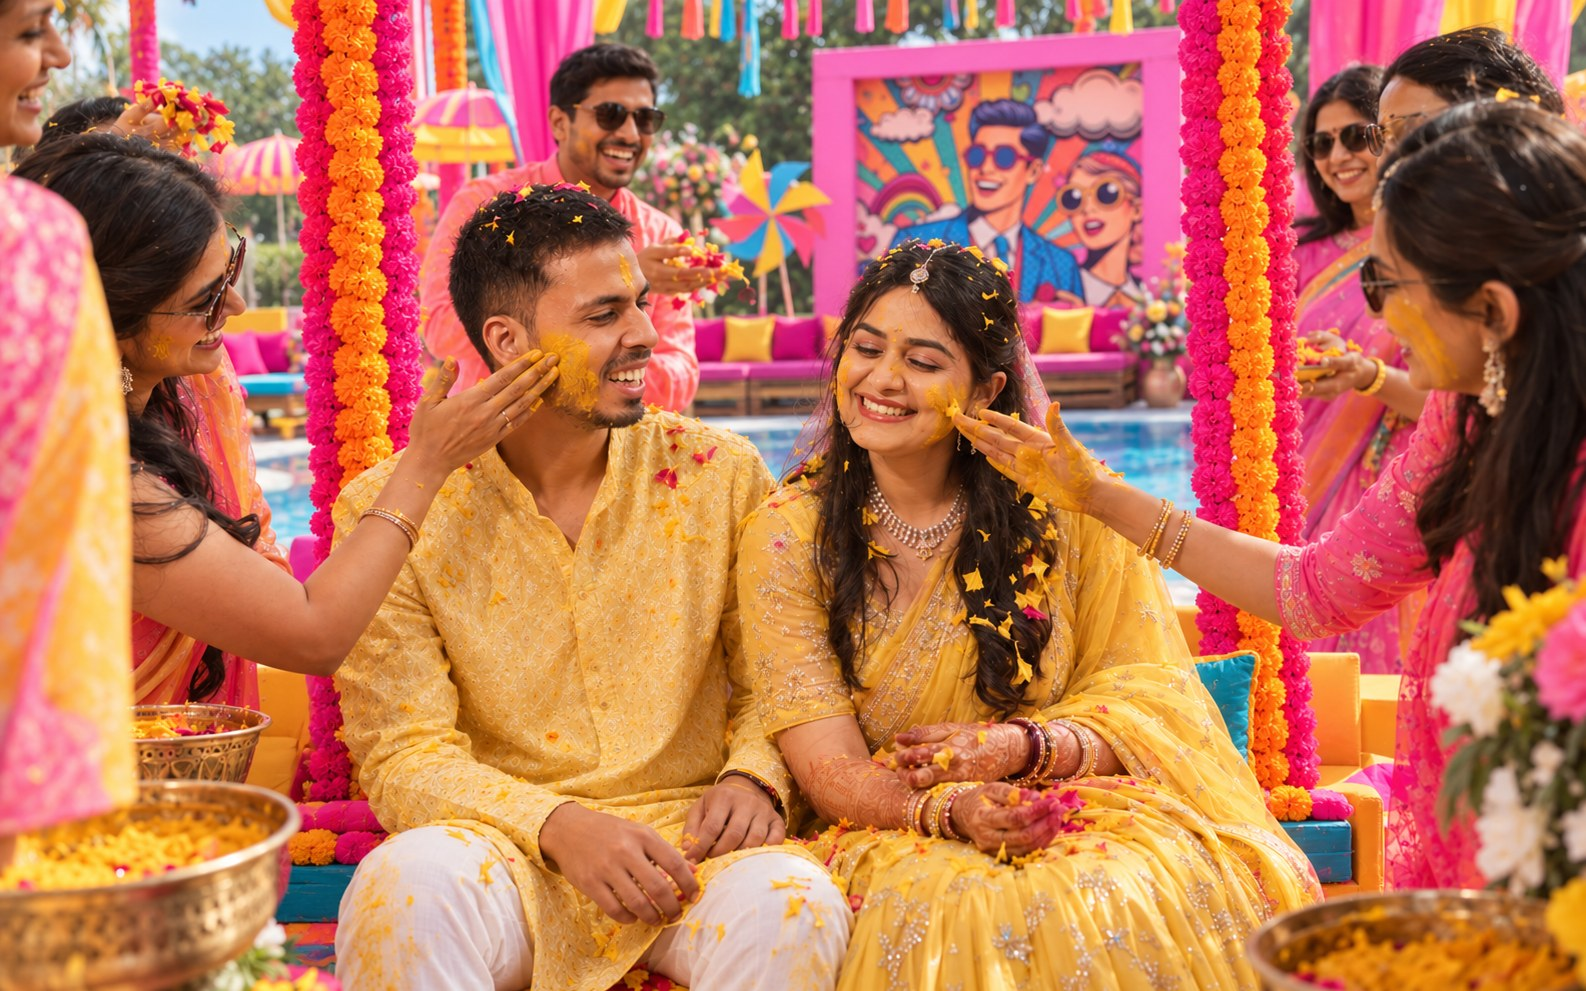
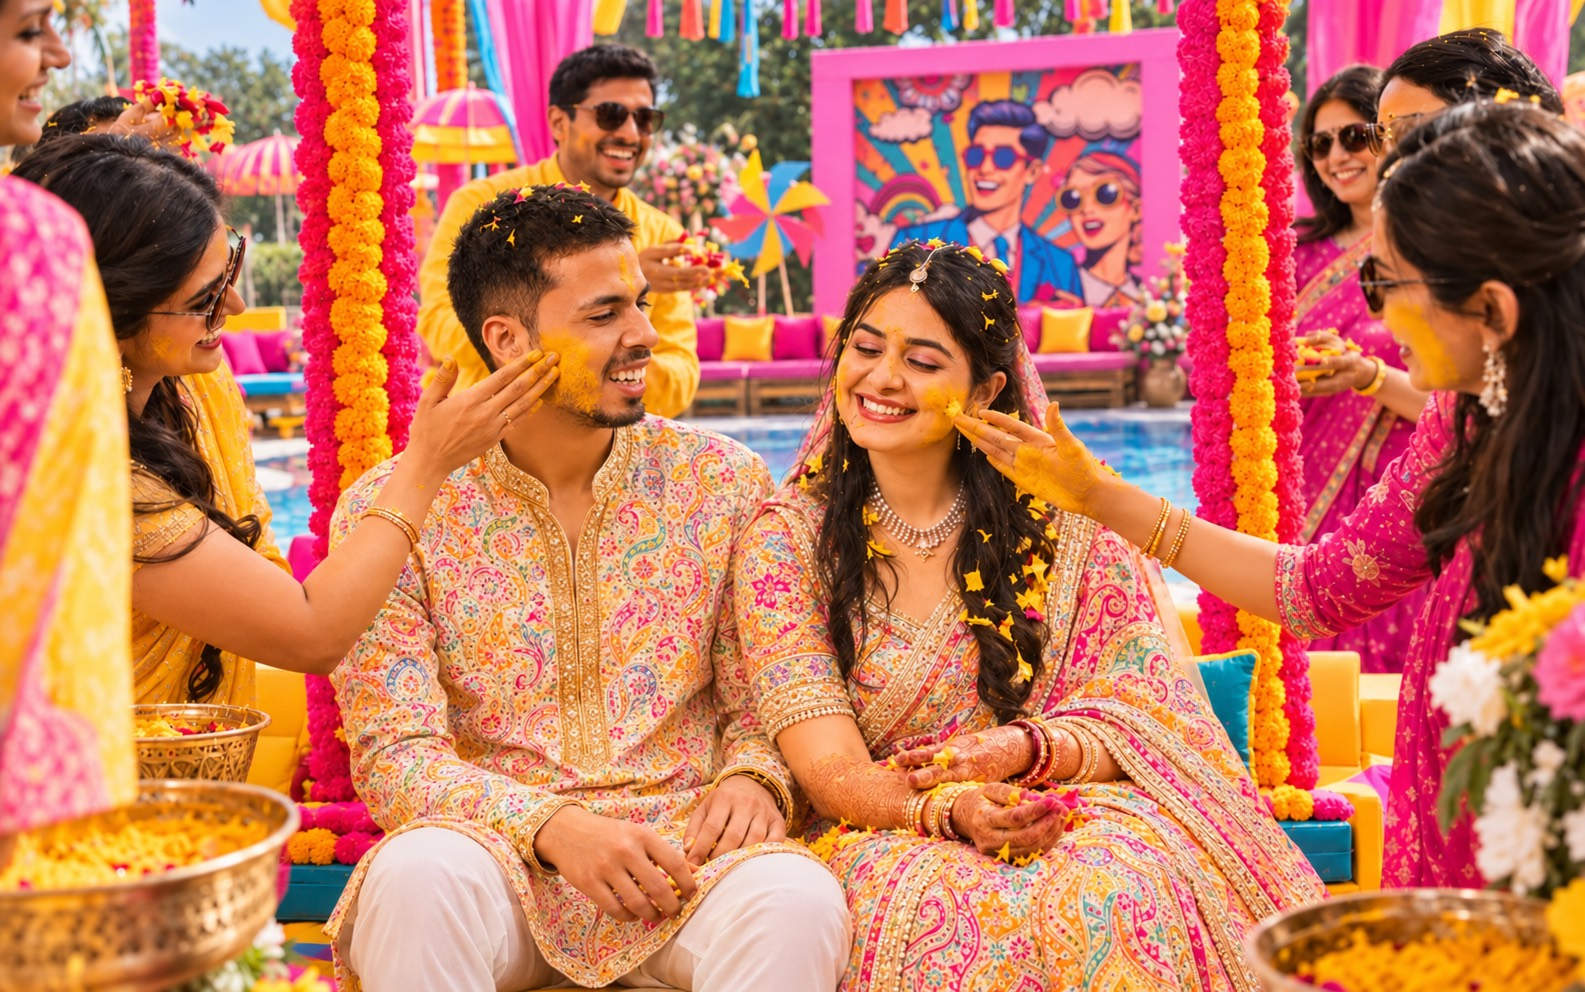
v22: dress codes on event cards, Plan your packing section, new Haldi photo

diff --git a/index.html b/index.html
@@ -43,6 +43,8 @@
     --gold-deep:#8C6D3B;
     --ink:#3C2F33;
     --ink-soft:#7D6B70;
+    --lemon:#F4D23C;
+    --magenta:#C2185B;
     --display:'Cormorant Garamond',"Cormorant","EB Garamond",Garamond,Georgia,serif;
     --script:'Parisienne',"Snell Roundhand","Apple Chancery",cursive;
     --sans:'Jost',"Futura","Avenir Next","Helvetica Neue",Arial,sans-serif;
@@ -241,7 +243,6 @@
      ===================================================================== */
   #events{display:block;padding-block:clamp(5rem,11vh,7rem)}
   #events .head{display:grid;gap:1rem;justify-items:center;text-align:center;margin-bottom:1.6rem}
-  #events h2{font-family:var(--display);font-weight:600;font-size:clamp(1.9rem,7vw,2.8rem);letter-spacing:.02em;margin:0;color:var(--rosewood);line-height:1.15}
   #events h2 em{font-style:italic;font-weight:500;color:var(--rose-deep)}
   .timeline{position:relative;display:grid;gap:1.6rem;max-width:520px;margin:0 auto;padding-left:34px;text-align:left}
   .timeline::before{content:"";position:absolute;left:9px;top:12px;bottom:12px;width:1px;background:linear-gradient(180deg,transparent,var(--gold) 6%,var(--gold) 94%,transparent)}
@@ -259,6 +260,29 @@
   .cal{display:inline-flex;align-items:center;gap:.5rem;font-family:var(--sans);font-weight:600;font-size:.74rem;letter-spacing:.16em;text-transform:uppercase;text-decoration:none;color:var(--sage-deep);padding:.6rem 1rem;border-radius:999px;border:1px solid var(--sage);transition:background .3s,color .3s,transform .4s var(--ease);white-space:nowrap}
   .cal:hover,.cal:focus-visible{background:var(--sage-deep);color:var(--white);transform:translateY(-1px)}
   .cal svg{width:13px;height:13px}
+  /* dress code line under each event's description */
+  .dress{flex-basis:100%;display:flex;align-items:center;flex-wrap:wrap;gap:.35rem .55rem;margin:-.3rem 0 0;font-style:italic;font-size:1.05rem;color:var(--rosewood)}
+  .dress small{font-family:var(--sans);font-style:normal;font-weight:600;font-size:.66rem;letter-spacing:.2em;text-transform:uppercase;color:var(--sage-deep);margin-right:.2rem}
+  .sw{display:inline-block;width:14px;height:14px;border-radius:50%;background:var(--c);box-shadow:0 0 0 2px var(--white),0 0 0 3px rgba(201,169,110,.8);flex:none}
+  .sw + .sw{margin-left:-.1rem}
+
+  /* =====================================================================
+     PLAN YOUR PACKING — one card per day
+     ===================================================================== */
+  #packing{min-height:auto;padding-block:clamp(5rem,11vh,7rem)}
+  #packing .inner{max-width:640px}
+  #events h2,#packing h2{font-family:var(--display);font-weight:600;font-size:clamp(1.9rem,7vw,2.8rem);letter-spacing:.02em;margin:0;color:var(--rosewood);line-height:1.15}
+  #packing h2 em{font-style:italic;font-weight:500;color:var(--rose-deep)}
+  .looks{display:grid;grid-template-columns:repeat(2,1fr);gap:.9rem;width:100%;margin-top:.4rem;text-align:left}
+  .look{display:grid;gap:.35rem;align-content:start;padding:1.1rem 1.2rem 1.15rem;border-radius:20px;background:var(--white);box-shadow:0 20px 40px -30px rgba(60,47,51,.4),0 0 0 1px rgba(201,169,110,.35)}
+  .look .when{font-family:var(--sans);font-weight:600;font-size:.64rem;letter-spacing:.2em;text-transform:uppercase;color:var(--sage-deep)}
+  .look h3{font-family:var(--display);font-weight:600;font-size:1.3rem;line-height:1.2;letter-spacing:.02em;margin:0;color:var(--rosewood)}
+  .look p{margin:0;font-style:italic;font-size:1.08rem;color:var(--ink);display:flex;align-items:center;gap:.55rem;flex-wrap:wrap}
+  /* the one themed event, framed in its own two colours */
+  .look:last-child{grid-column:1 / -1}
+  .look.theme{border:1.5px solid transparent;background:linear-gradient(var(--white),var(--white)) padding-box,linear-gradient(110deg,var(--lemon),var(--magenta)) border-box;box-shadow:0 24px 44px -30px rgba(194,24,91,.55)}
+  .look.theme p{font-style:normal;font-weight:600;font-size:1.2rem;color:var(--magenta)}
+  .look.theme .sw{width:18px;height:18px}
 
   /* =====================================================================
      VENUE
@@ -339,6 +363,8 @@
     .ev .meta{padding:.9rem 1rem}
     .ev .body{padding:1rem 1rem 1.1rem}
     .cal{min-height:44px}
+    .looks{grid-template-columns:1fr;gap:.7rem}
+    .look{padding:1rem 1.05rem 1.05rem}
     .venue-card{border-radius:22px}
     .venue-card .text{padding:1.5rem 1rem 1.6rem}
     .btn{width:100%;max-width:320px}
@@ -478,11 +504,12 @@
       <div class="day rv">Thursday · 26 November 2026</div>
 
       <article class="ev rv">
-        <div class="photo" data-label="Carnival &amp; haldi photo — wedding-photos-v4/haldi.jpg"><picture><source type="image/webp" srcset="wedding-photos-v4/haldi.webp"><img loading="lazy" decoding="async" src="wedding-photos-v4/haldi.jpg" alt="" onerror="this.parentNode.classList.add('missing')"></picture>
+        <div class="photo" data-label="Carnival &amp; haldi photo — wedding-photos-v4/haldi.jpg"><picture><img loading="lazy" decoding="async" src="wedding-photos-v4/haldi.jpg" alt="" onerror="this.parentNode.classList.add('missing')"></picture>
           <div class="meta"><h3>Carnival Party &amp; Haldi</h3><span class="time">7:00 AM</span></div>
         </div>
         <div class="body">
           <p>Rang, masti aur haldi ki pehli khushboo…</p>
+          <div class="dress"><small>Dress code</small><span class="sw" style="--c:var(--lemon)"></span><span class="sw" style="--c:var(--magenta)"></span>Lemon &amp; Magenta</div>
           <a class="cal" target="_blank" rel="noopener" data-cal="Carnival Party & Haldi|20261126T013000Z|20261126T043000Z"><svg viewBox="0 0 24 24" fill="none" stroke="currentColor" stroke-width="1.6"><rect x="3" y="5" width="18" height="16" rx="2"/><path d="M3 10h18M8 3v4M16 3v4"/></svg>Add to calendar</a>
         </div>
       </article>
@@ -493,6 +520,7 @@
         </div>
         <div class="body">
           <p>Geet, naach aur dil khol kar jashn…</p>
+          <div class="dress"><small>Dress code</small>Anything as you wish</div>
           <a class="cal" target="_blank" rel="noopener" data-cal="Sangeet|20261126T053000Z|20261126T093000Z"><svg viewBox="0 0 24 24" fill="none" stroke="currentColor" stroke-width="1.6"><rect x="3" y="5" width="18" height="16" rx="2"/><path d="M3 10h18M8 3v4M16 3v4"/></svg>Add to calendar</a>
         </div>
       </article>
@@ -503,6 +531,7 @@
         </div>
         <div class="body">
           <p>Dhol bajenge, baraat niklegi aur khushiyan chhaayengi…</p>
+          <div class="dress"><small>Dress code</small>Anything as you wish</div>
           <a class="cal" target="_blank" rel="noopener" data-cal="Baraat|20261126T143000Z|20261126T183000Z"><svg viewBox="0 0 24 24" fill="none" stroke="currentColor" stroke-width="1.6"><rect x="3" y="5" width="18" height="16" rx="2"/><path d="M3 10h18M8 3v4M16 3v4"/></svg>Add to calendar</a>
         </div>
       </article>
@@ -515,6 +544,7 @@
         </div>
         <div class="body">
           <p>Saat phere, saat vaade aur zindagi bhar ka saath…</p>
+          <div class="dress"><small>Dress code</small>Anything as you wish</div>
           <a class="cal" target="_blank" rel="noopener" data-cal="Wedding / Phere|20261127T023000Z|20261127T053000Z"><svg viewBox="0 0 24 24" fill="none" stroke="currentColor" stroke-width="1.6"><rect x="3" y="5" width="18" height="16" rx="2"/><path d="M3 10h18M8 3v4M16 3v4"/></svg>Add to calendar</a>
         </div>
       </article>
@@ -525,9 +555,28 @@
         </div>
         <div class="body">
           <p>Aankhon mein aansu, dil mein duaayein aur ek nayi shuruaat…</p>
+          <div class="dress"><small>Dress code</small>Anything as you wish</div>
           <a class="cal" target="_blank" rel="noopener" data-cal="Vidai|20261127T053000Z|20261127T073000Z"><svg viewBox="0 0 24 24" fill="none" stroke="currentColor" stroke-width="1.6"><rect x="3" y="5" width="18" height="16" rx="2"/><path d="M3 10h18M8 3v4M16 3v4"/></svg>Add to calendar</a>
         </div>
       </article>
+    </div>
+  </div>
+</section>
+
+<!-- ============ PLAN YOUR PACKING ============ -->
+<section class="scene blush" id="packing">
+  <div class="flora tl" data-flora aria-hidden="true"></div>
+  <div class="flora br" data-flora aria-hidden="true"></div>
+  <div class="inner">
+    <p class="eyebrow rv">A little help for your suitcase</p>
+    <h2 class="rv d1">Plan your <em>packing</em></h2>
+    <p class="line rv d2" style="font-size:clamp(1.1rem,4vw,1.35rem)">Bas thoda sa idea, taaki packing aasaan ho jaaye.</p>
+    <div class="looks">
+      <div class="look rv d1"><span class="when">Wed · 25 Nov</span><h3>Dinner at home</h3><p>Anything as you wish</p></div>
+      <div class="look theme rv d2"><span class="when">Thu · 26 Nov · Morning</span><h3>Carnival Party &amp; Haldi</h3><p><span class="sw" style="--c:var(--lemon)"></span><span class="sw" style="--c:var(--magenta)"></span>Lemon &amp; Magenta</p></div>
+      <div class="look rv d2"><span class="when">Thu · 26 Nov · Morning</span><h3>Sangeet</h3><p>Anything as you wish</p></div>
+      <div class="look rv d3"><span class="when">Thu · 26 Nov · Evening</span><h3>Baraat</h3><p>Anything as you wish</p></div>
+      <div class="look rv d3"><span class="when">Fri · 27 Nov · Morning</span><h3>Wedding / Phere</h3><p>Anything as you wish</p></div>
     </div>
   </div>
 </section>
